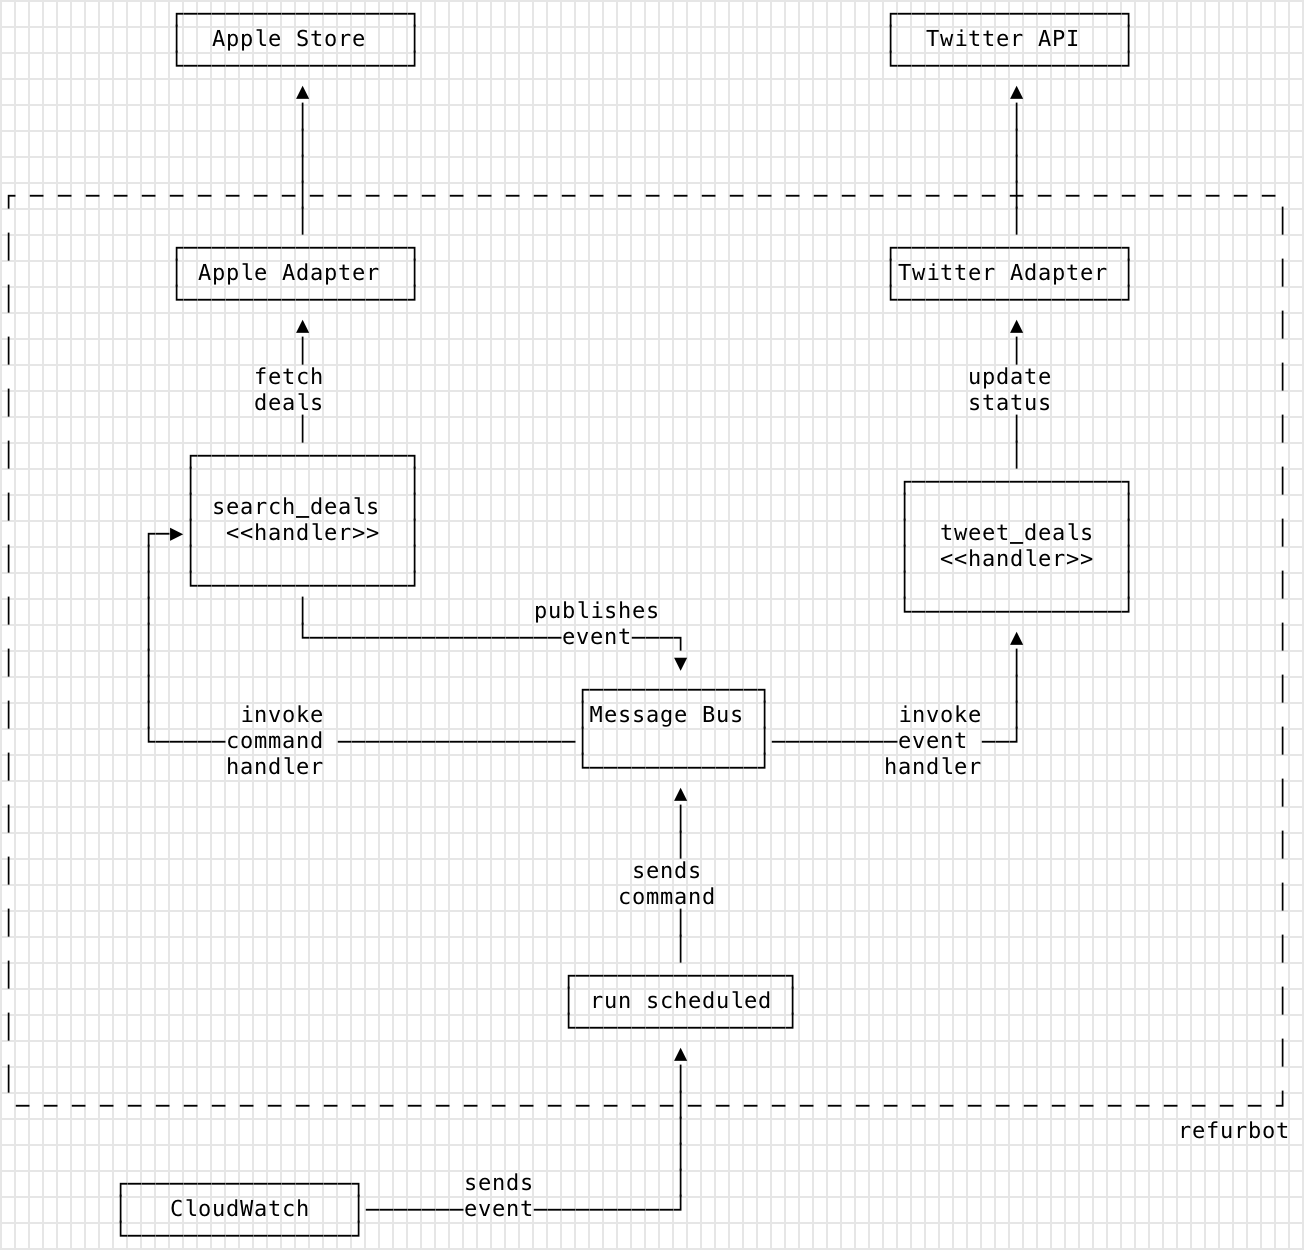
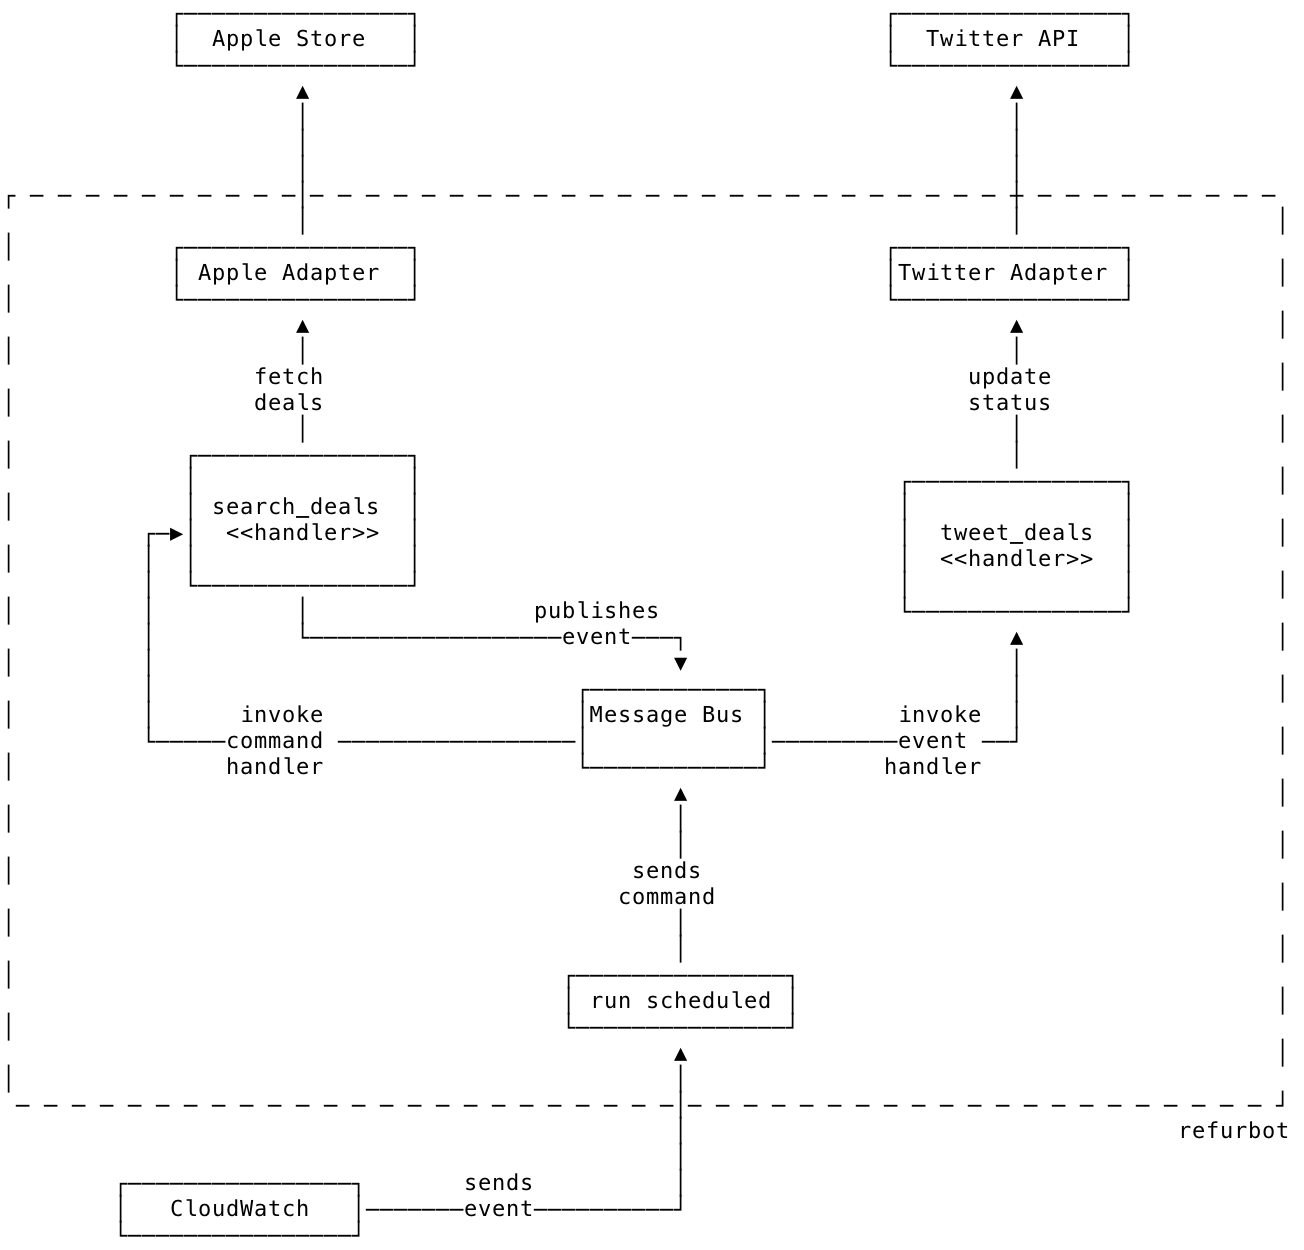
Use diagram without grid
Not sure what's better thou

Changed region(s): [[0.0, 0.0, 1.0, 1.0]]

diff --git a/content/post/refurbot.md b/content/post/refurbot.md
@@ -32,7 +32,7 @@ https://github.com/zmoog/refurbot
 
 Refurbot has been designed using the [clean architecture](https://blog.cleancoder.com/uncle-bob/2012/08/13/the-clean-architecture.html) principles. Totally overkill for a simple project like this, but sometimes it's useful to test or practice using simple context and then progressively move up to something more complex.
 
-![Refurbot Architecture](images/refurbot-architecture.png)
+![Refurbot Architecture](/images/refurbot-architecture.png)
 
 > high level architecture with adapters, message bus, etc
 
